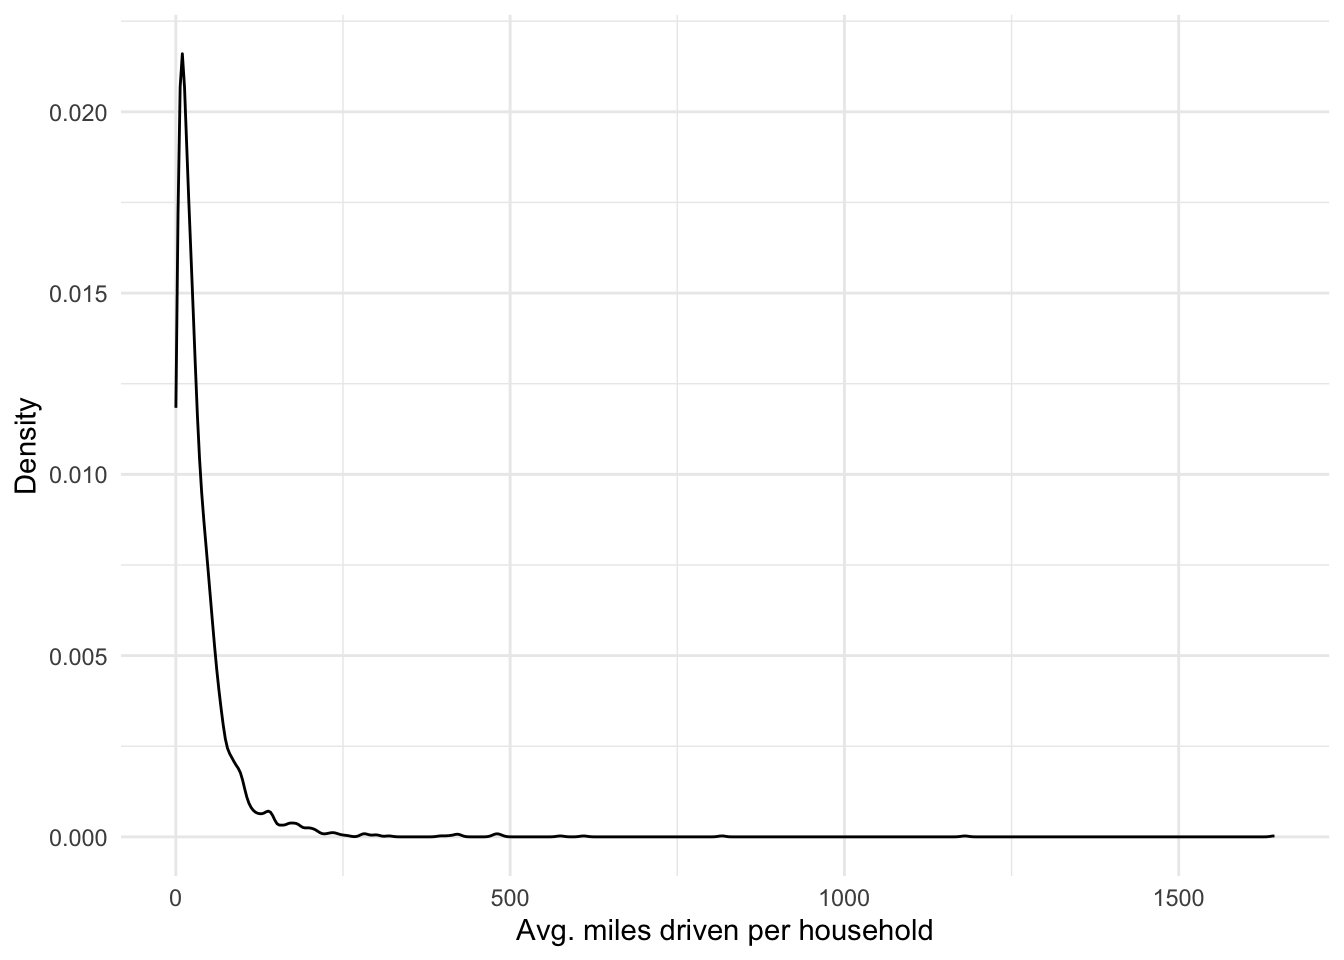
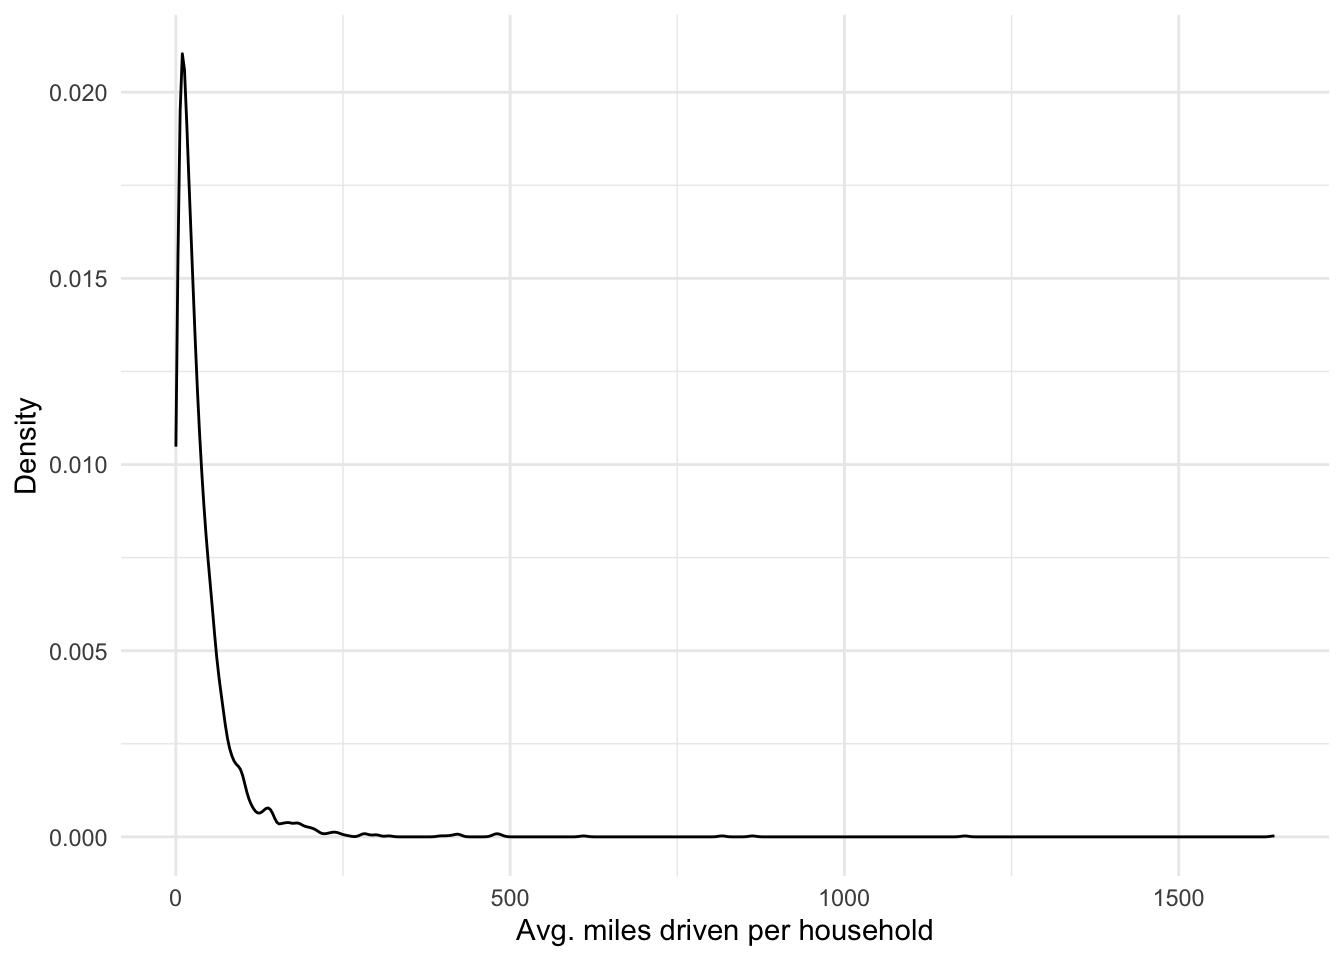
Changed the way in which the num_days_trips is created, namely from using fn 'max(daynum)' to 'n_distinct(daynum)'.
This computes the exact number of trips per household corresponding to the transport mode subset, i.e. driving. This was also affecting the average miles driven, as the number of days was including all modes.

The results of the models are minimally affected.

diff --git a/docs/session-3.html b/docs/session-3.html
@@ -277,7 +277,7 @@ pre > code.sourceCode > span > a:first-child::before { text-decoration: underlin
 <span id="cb4-2"><a href="#cb4-2" aria-hidden="true" tabindex="-1"></a>  <span class="fu">group_by</span>(household_id) <span class="sc">%&gt;%</span> </span>
 <span id="cb4-3"><a href="#cb4-3" aria-hidden="true" tabindex="-1"></a>  <span class="fu">summarise</span>(</span>
 <span id="cb4-4"><a href="#cb4-4" aria-hidden="true" tabindex="-1"></a>    <span class="at">total_miles_hh =</span> <span class="fu">sum</span>(distance_miles, <span class="at">na.rm =</span> <span class="cn">TRUE</span>),</span>
-<span id="cb4-5"><a href="#cb4-5" aria-hidden="true" tabindex="-1"></a>    <span class="at">num_days_trips =</span> <span class="fu">max</span>(daynum),</span>
+<span id="cb4-5"><a href="#cb4-5" aria-hidden="true" tabindex="-1"></a>    <span class="at">num_days_trips =</span> <span class="fu">n_distinct</span>(daynum),</span>
 <span id="cb4-6"><a href="#cb4-6" aria-hidden="true" tabindex="-1"></a>    <span class="at">avg_miles_driven =</span> total_miles_hh <span class="sc">/</span> num_days_trips</span>
 <span id="cb4-7"><a href="#cb4-7" aria-hidden="true" tabindex="-1"></a>  )</span></code><button title="Copy to Clipboard" class="code-copy-button"><i class="bi"></i></button></pre></div>
 </div>
@@ -422,8 +422,8 @@ pre > code.sourceCode > span > a:first-child::before { text-decoration: underlin
 <pre><code># A tibble: 2 × 3
   any_work_home miles_driven_mean miles_driven_sd
   &lt;chr&gt;                     &lt;dbl&gt;           &lt;dbl&gt;
-1 No                         37.2            48.1
-2 Yes                        37.4            42.3</code></pre>
+1 No                         38.4            48.5
+2 Yes                        38.7            42.7</code></pre>
 </div>
 </div>
 </section>
@@ -442,18 +442,18 @@ lm(formula = avg_miles_driven ~ any_work_home, data = .)
 
 Residuals:
    Min     1Q Median     3Q    Max 
--37.27 -26.84 -13.48  10.05 448.62 
+-38.53 -27.34 -13.47   9.98 447.39 
 
 Coefficients:
                  Estimate Std. Error t value Pr(&gt;|t|)    
-(Intercept)       37.1775     1.1546  32.200   &lt;2e-16 ***
-any_work_homeYes   0.1998     1.7202   0.116    0.908    
+(Intercept)       38.4147     1.1645  32.989   &lt;2e-16 ***
+any_work_homeYes   0.3259     1.7349   0.188    0.851    
 ---
 Signif. codes:  0 '***' 0.001 '**' 0.01 '*' 0.05 '.' 0.1 ' ' 1
 
-Residual standard error: 45.6 on 2837 degrees of freedom
-Multiple R-squared:  4.755e-06, Adjusted R-squared:  -0.0003477 
-F-statistic: 0.01349 on 1 and 2837 DF,  p-value: 0.9075</code></pre>
+Residual standard error: 45.99 on 2837 degrees of freedom
+Multiple R-squared:  1.244e-05, Adjusted R-squared:  -0.00034 
+F-statistic: 0.03528 on 1 and 2837 DF,  p-value: 0.851</code></pre>
 </div>
 </div>
 <p>Are there potential problems with this model or results?</p>
@@ -495,26 +495,26 @@ lm(formula = avg_miles_driven ~ any_work_home + hhsize_int +
 
 Residuals:
    Min     1Q Median     3Q    Max 
--89.21 -22.86 -10.41   8.87 434.78 
+-85.49 -23.42 -10.93   9.53 433.53 
 
 Coefficients:
                                 Estimate Std. Error t value Pr(&gt;|t|)    
-(Intercept)                        4.927      3.609   1.365 0.172338    
-any_work_homeYes                  -8.301      1.933  -4.295 1.81e-05 ***
-hhsize_int                        10.952      1.084  10.107  &lt; 2e-16 ***
-hhincome_broad$25,000-$49,999      5.298      4.069   1.302 0.193021    
-hhincome_broad$50,000-$74,999     13.181      3.974   3.317 0.000923 ***
-hhincome_broad$75,000-$99,999     10.543      4.104   2.569 0.010254 *  
-hhincome_broad$100,000-$199,999   19.243      3.716   5.178 2.41e-07 ***
-hhincome_broad$200,000 or more    13.724      4.054   3.386 0.000721 ***
-children_binaryYes                 1.628      3.092   0.526 0.598643    
+(Intercept)                        7.253      3.661   1.981 0.047702 *  
+any_work_homeYes                  -7.782      1.961  -3.969 7.43e-05 ***
+hhsize_int                        10.390      1.099   9.451  &lt; 2e-16 ***
+hhincome_broad$25,000-$49,999      6.121      4.128   1.483 0.138285    
+hhincome_broad$50,000-$74,999     13.564      4.031   3.365 0.000778 ***
+hhincome_broad$75,000-$99,999     10.066      4.163   2.418 0.015682 *  
+hhincome_broad$100,000-$199,999   18.768      3.770   4.978 6.84e-07 ***
+hhincome_broad$200,000 or more    13.923      4.112   3.386 0.000721 ***
+children_binaryYes                 1.522      3.137   0.485 0.627681    
 ---
 Signif. codes:  0 '***' 0.001 '**' 0.01 '*' 0.05 '.' 0.1 ' ' 1
 
-Residual standard error: 44.44 on 2562 degrees of freedom
+Residual standard error: 45.08 on 2562 degrees of freedom
   (268 observations deleted due to missingness)
-Multiple R-squared:  0.1021,    Adjusted R-squared:  0.09928 
-F-statistic: 36.41 on 8 and 2562 DF,  p-value: &lt; 2.2e-16</code></pre>
+Multiple R-squared:  0.09071,   Adjusted R-squared:  0.08787 
+F-statistic: 31.95 on 8 and 2562 DF,  p-value: &lt; 2.2e-16</code></pre>
 </div>
 </div>
 <p>Discuss the model results with your tutor.</p>
@@ -566,26 +566,26 @@ lm(formula = log_miles_driven ~ any_work_home + hhsize_int +
 
 Residuals:
     Min      1Q  Median      3Q     Max 
--5.0276 -0.6560  0.1140  0.7483  3.5693 
+-4.8991 -0.6340  0.1017  0.7374  3.4246 
 
 Coefficients:
                                 Estimate Std. Error t value Pr(&gt;|t|)    
-(Intercept)                      1.86366    0.09244  20.161  &lt; 2e-16 ***
-any_work_homeYes                -0.23932    0.04951  -4.834 1.42e-06 ***
-hhsize_int                       0.30433    0.02776  10.964  &lt; 2e-16 ***
-hhincome_broad$25,000-$49,999    0.29811    0.10423   2.860  0.00427 ** 
-hhincome_broad$50,000-$74,999    0.57722    0.10179   5.671 1.58e-08 ***
-hhincome_broad$75,000-$99,999    0.59114    0.10511   5.624 2.07e-08 ***
-hhincome_broad$100,000-$199,999  0.83933    0.09518   8.818  &lt; 2e-16 ***
-hhincome_broad$200,000 or more   0.77063    0.10383   7.422 1.56e-13 ***
-children_binaryYes               0.00540    0.07921   0.068  0.94565    
+(Intercept)                      2.10369    0.08813  23.872  &lt; 2e-16 ***
+any_work_homeYes                -0.21061    0.04720  -4.462 8.46e-06 ***
+hhsize_int                       0.26492    0.02646  10.012  &lt; 2e-16 ***
+hhincome_broad$25,000-$49,999    0.24219    0.09936   2.437   0.0149 *  
+hhincome_broad$50,000-$74,999    0.50126    0.09704   5.166 2.58e-07 ***
+hhincome_broad$75,000-$99,999    0.49212    0.10021   4.911 9.63e-07 ***
+hhincome_broad$100,000-$199,999  0.71162    0.09074   7.843 6.42e-15 ***
+hhincome_broad$200,000 or more   0.65926    0.09899   6.660 3.33e-11 ***
+children_binaryYes               0.01942    0.07551   0.257   0.7971    
 ---
 Signif. codes:  0 '***' 0.001 '**' 0.01 '*' 0.05 '.' 0.1 ' ' 1
 
-Residual standard error: 1.138 on 2562 degrees of freedom
+Residual standard error: 1.085 on 2562 degrees of freedom
   (268 observations deleted due to missingness)
-Multiple R-squared:  0.1396,    Adjusted R-squared:  0.1369 
-F-statistic: 51.95 on 8 and 2562 DF,  p-value: &lt; 2.2e-16</code></pre>
+Multiple R-squared:   0.12, Adjusted R-squared:  0.1173 
+F-statistic: 43.68 on 8 and 2562 DF,  p-value: &lt; 2.2e-16</code></pre>
 </div>
 </div>
 <p>Which model would you choose? Are the any other potentially omitted variables?</p>
